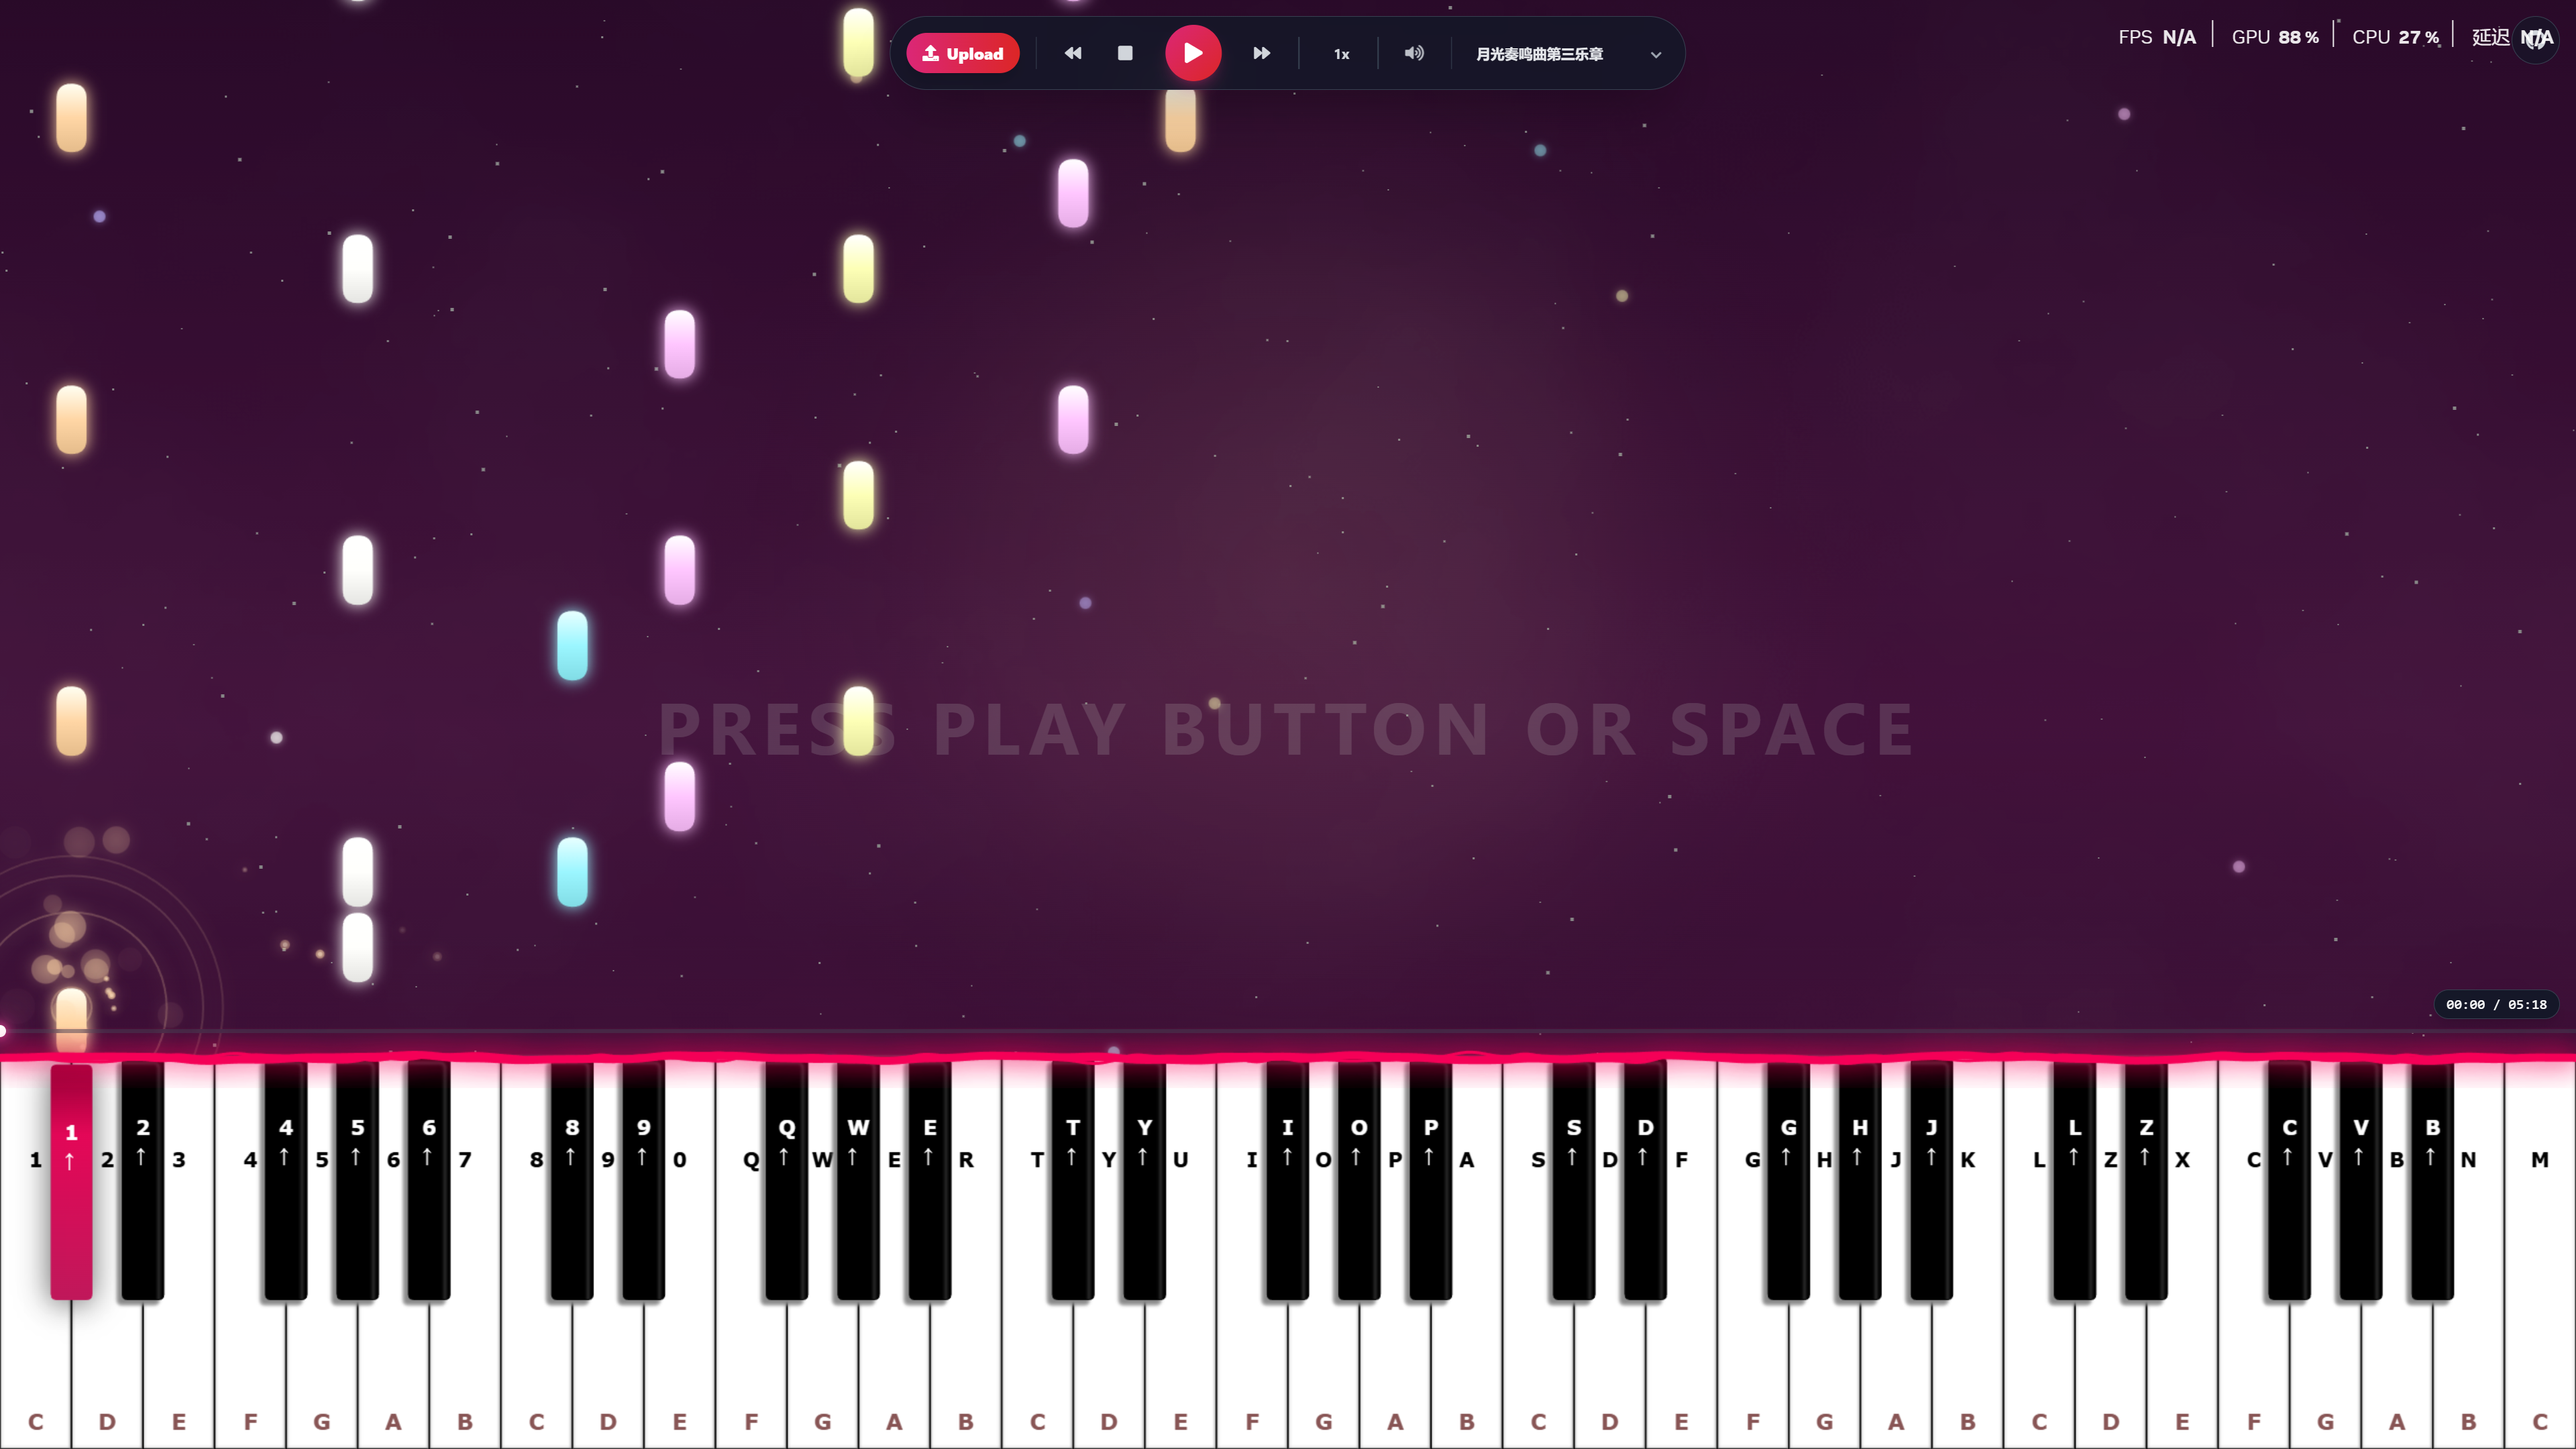
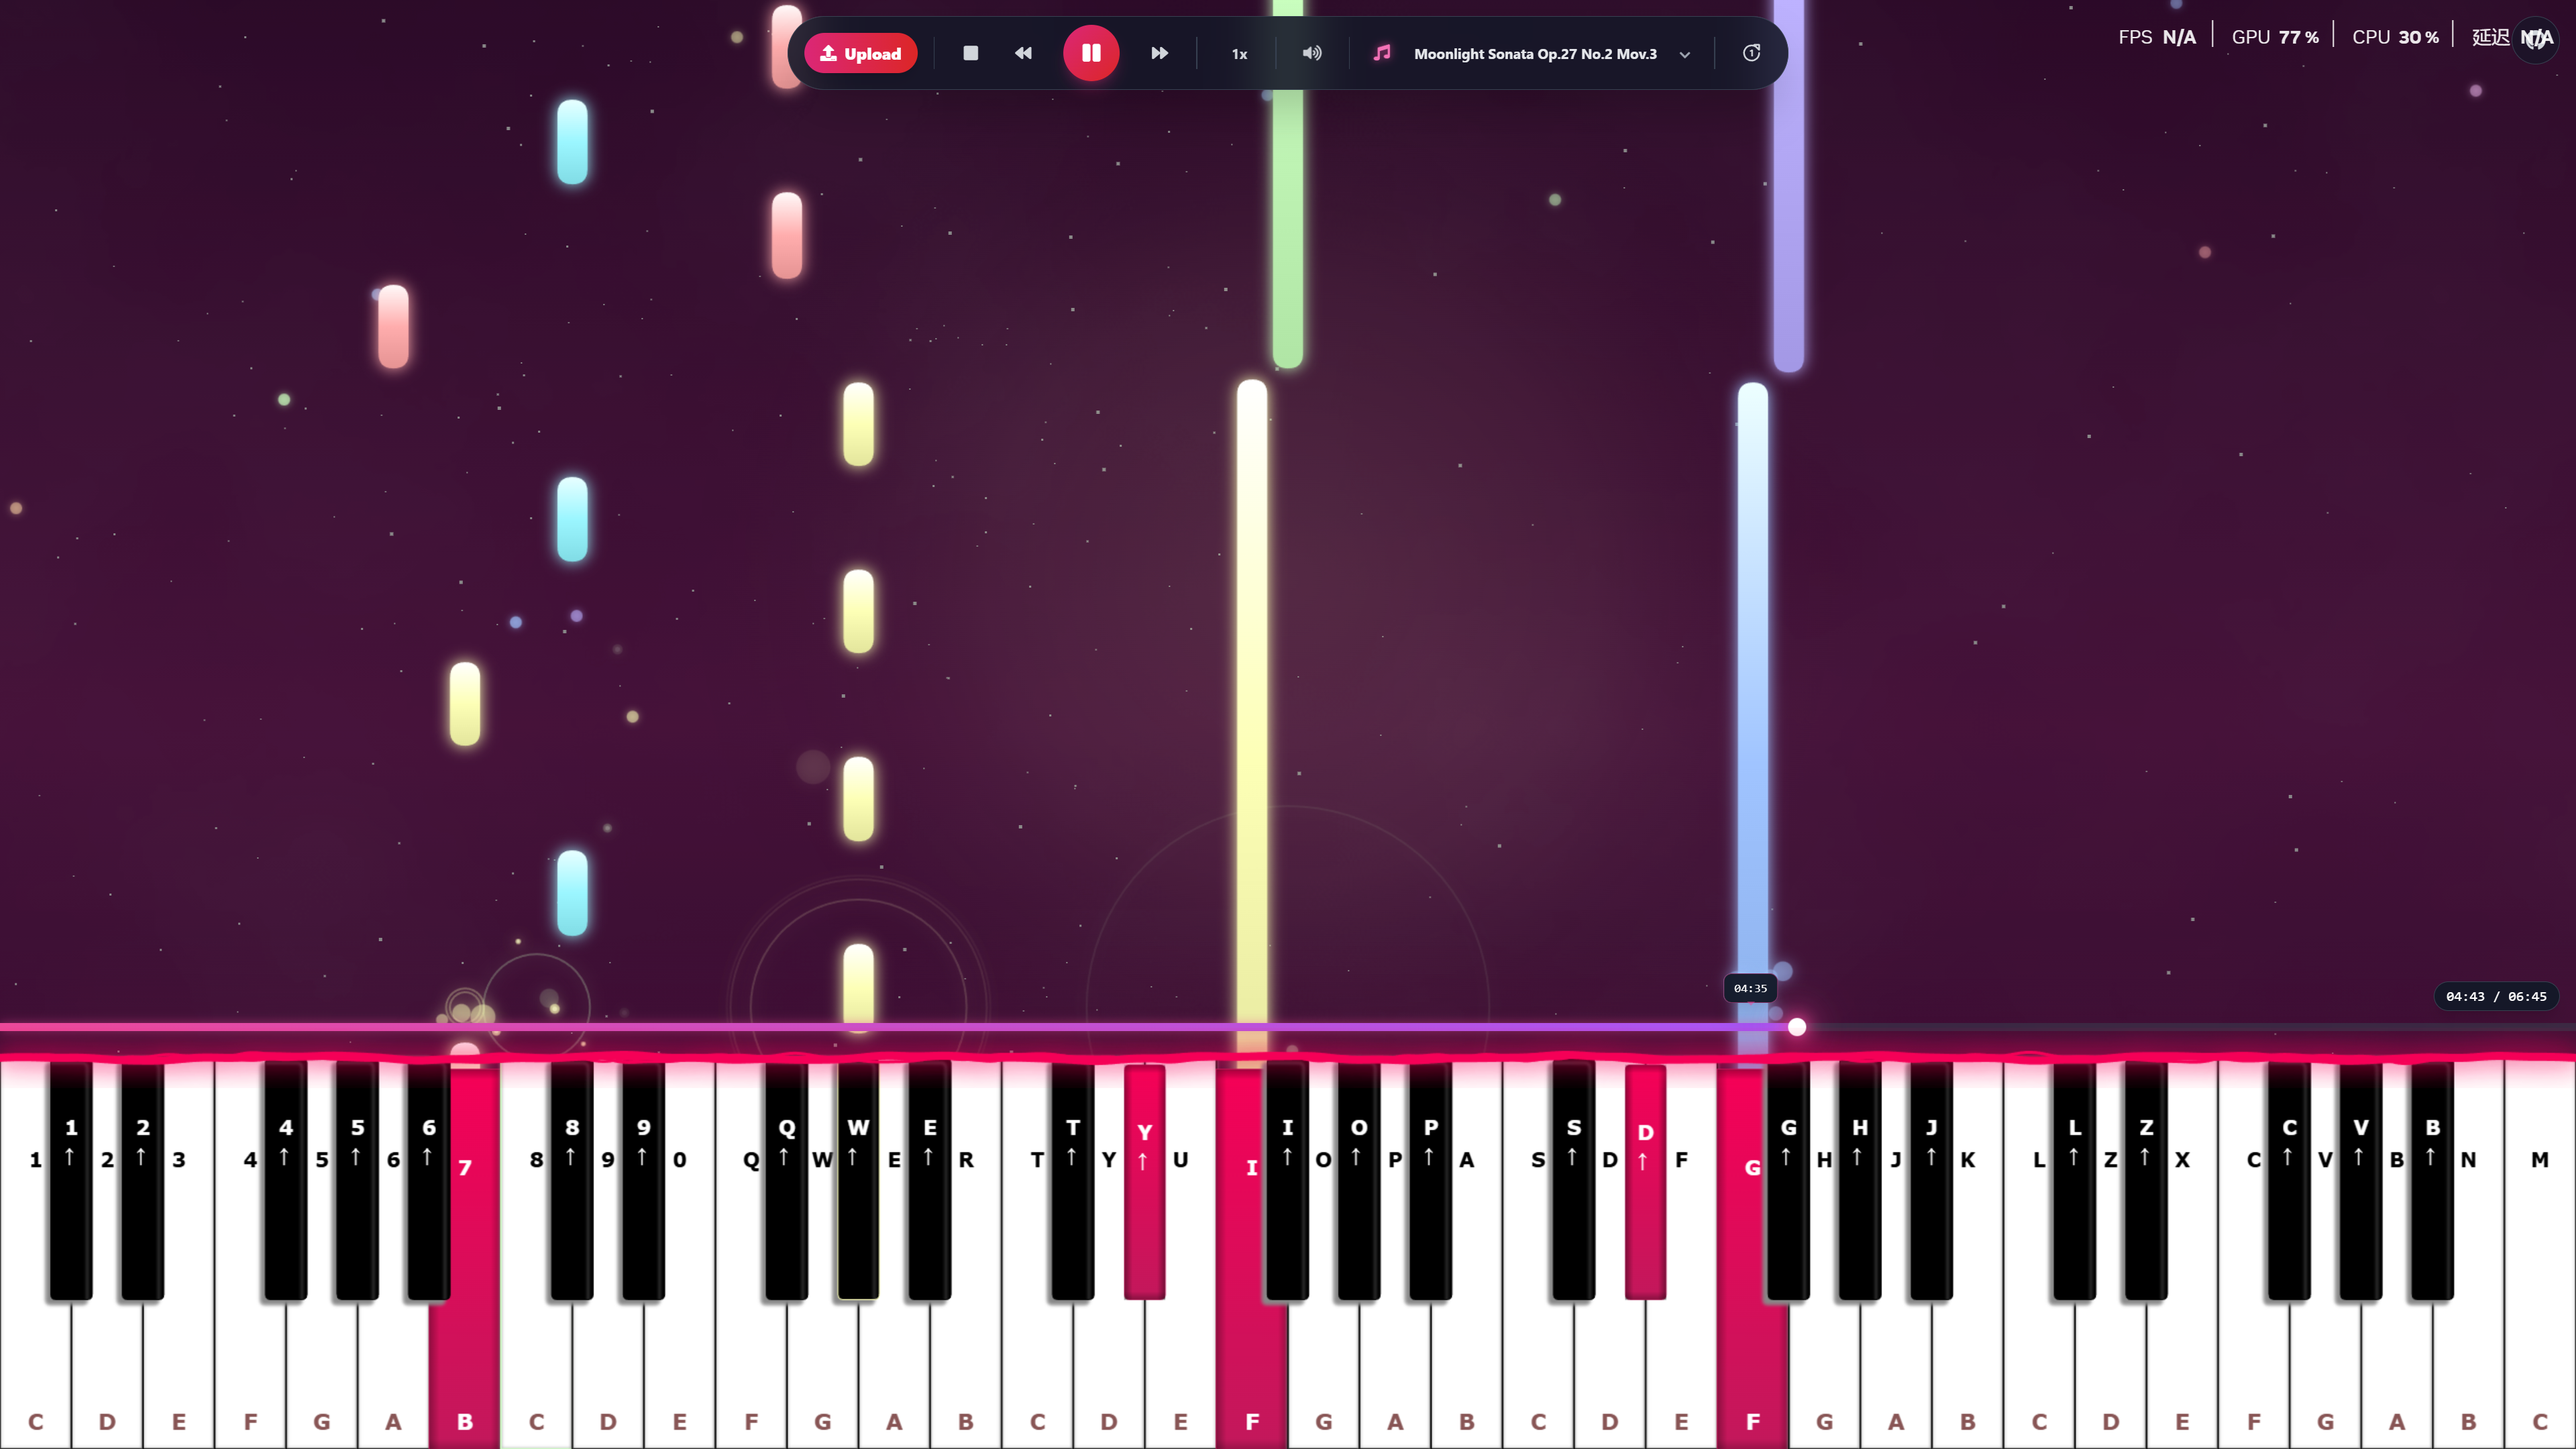
feat: playmode

diff --git a/src/components/PianoCanvas.vue b/src/components/PianoCanvas.vue
@@ -131,6 +131,32 @@
           <i class="fas fa-trash text-sm"></i>
         </button>
       </div>
+
+      <div class="hidden sm:block w-px h-8 bg-gray-700 mx-1"></div>
+
+      <!-- Play Mode Control -->
+      <button @click="cyclePlayMode"
+        class="w-10 h-10 flex items-center justify-center rounded-full hover:bg-gray-700 hover:text-purple-400 transition-all text-gray-300 active:scale-95 relative group"
+        :title="playModeTitle">
+        <!-- FontAwesome Icon -->
+        <i v-if="playModeIcon.type === 'fa'" :class="['fas', playModeIcon.icon, 'text-sm sm:text-base transition-all duration-300']" 
+           :style="{ animation: 'playModeIconPulse 2s ease-in-out infinite' }"></i>
+        <!-- Custom SVG Icon for Single Loop -->
+        <svg v-else-if="playModeIcon.type === 'svg' && playModeIcon.icon === 'single-loop'" 
+             class="w-4 h-4 sm:w-5 sm:h-5 transition-all duration-300"
+             :style="{ animation: 'playModeIconPulse 2s ease-in-out infinite' }"
+             viewBox="0 0 24 24" 
+             fill="none" 
+             stroke="currentColor" 
+             stroke-width="2" 
+             stroke-linecap="round" 
+             stroke-linejoin="round">
+          <!-- Circular arrow path -->
+          <path d="M21 12a9 9 0 1 1-2.636-6.364L21 8.25V2.25h-6l2.879 2.879"></path>
+          <!-- Number 1 in center -->
+          <text x="12" y="16" text-anchor="middle" fill="currentColor" font-size="10" font-weight="bold" stroke="none">1</text>
+        </svg>
+      </button>
     </div>
 
     <!-- Progress Bar -->
@@ -379,6 +405,18 @@
     transform: rotate(-90deg) scale(1.1);
   }
 }
+
+/* Play Mode Icon Animation */
+@keyframes playModeIconPulse {
+  0%, 100% {
+    transform: scale(1);
+    opacity: 1;
+  }
+  50% {
+    transform: scale(1.1);
+    opacity: 0.8;
+  }
+}
 </style>
 
 <script setup lang="ts">
@@ -429,6 +467,7 @@ const totalDuration = ref(1000); // Total song duration in ms
 const playbackSpeed = ref(1); // Speed multiplier
 const volume = ref(0.9); // Volume level 0-1
 const showVolumeSlider = ref(false); // Toggle volume slider visibility
+const playMode = ref<'single' | 'list' | 'random'>('single'); // Play mode: 单曲循环/列表循环/随机
 const canvasWidth = ref(window.innerWidth);
 const canvasHeight = ref(window.innerHeight);
 const pianoY = ref(0);
@@ -473,6 +512,24 @@ const selectWidth = computed(() => {
   // Calculate total width with min and max constraints
   const calculatedWidth = textWidth + padding;
   return Math.max(80, Math.min(300, calculatedWidth));
+});
+
+const playModeIcon = computed(() => {
+  switch (playMode.value) {
+    case 'single': return { type: 'svg', icon: 'single-loop' }; // 单曲循环 (custom SVG)
+    case 'list': return { type: 'fa', icon: 'fa-sync-alt' }; // 列表循环 (circular sync)
+    case 'random': return { type: 'fa', icon: 'fa-random' }; // 随机 (shuffle icon)
+    default: return { type: 'svg', icon: 'single-loop' };
+  }
+});
+
+const playModeTitle = computed(() => {
+  switch (playMode.value) {
+    case 'single': return '单曲循环 (Single Loop)';
+    case 'list': return '列表循环 (List Loop)';
+    case 'random': return '随机 (Random)';
+    default: return '单曲循环';
+  }
 });
 
 const isMobile = computed(() => {
@@ -691,6 +748,62 @@ const cycleSpeed = () => {
   const currentIndex = speeds.indexOf(playbackSpeed.value);
   const nextIndex = (currentIndex + 1) % speeds.length;
   playbackSpeed.value = speeds[nextIndex];
+};
+
+const cyclePlayMode = () => {
+  const modes: Array<'single' | 'list' | 'random'> = ['single', 'list', 'random'];
+  const currentIndex = modes.indexOf(playMode.value);
+  const nextIndex = (currentIndex + 1) % modes.length;
+  playMode.value = modes[nextIndex];
+  // Save play mode to localStorage
+  localStorage.setItem('playMode', playMode.value);
+};
+
+const getNextSheetKey = (): string | null => {
+  const allKeys = sheetKeys.value;
+  if (allKeys.length === 0) return null;
+  
+  const currentIndex = allKeys.indexOf(selectedSheetKey.value);
+  
+  if (playMode.value === 'single') {
+    // Single loop: return same song
+    return selectedSheetKey.value;
+  } else if (playMode.value === 'list') {
+    // List loop: go to next song, wrap around to first
+    const nextIndex = (currentIndex + 1) % allKeys.length;
+    return allKeys[nextIndex];
+  } else if (playMode.value === 'random') {
+    // Random: pick a random song (avoid current if possible)
+    if (allKeys.length === 1) return allKeys[0];
+    let randomIndex;
+    do {
+      randomIndex = Math.floor(Math.random() * allKeys.length);
+    } while (randomIndex === currentIndex && allKeys.length > 1);
+    return allKeys[randomIndex];
+  }
+  
+  return null;
+};
+
+const playNextSong = () => {
+  const nextKey = getNextSheetKey();
+  if (!nextKey) return;
+  
+  if (nextKey === selectedSheetKey.value) {
+    // Same song, just restart
+    playbackTime.value = 0;
+    play();
+  } else {
+    // Switch to next song
+    selectedSheetKey.value = nextKey;
+    localStorage.setItem('selectedSheetKey', nextKey);
+    customSheet.value = null;
+    reset();
+    // Auto-play the next song
+    setTimeout(() => {
+      play();
+    }, 100);
+  }
 };
 
 const updateVolume = () => {
@@ -1726,6 +1839,8 @@ const update = () => {
     if (playbackTime.value >= totalDuration.value) {
       pause();
       playbackTime.value = totalDuration.value;
+      // Auto-play next song according to play mode
+      playNextSong();
     }
   } else {
     lastFrameTime = 0;
@@ -1909,6 +2024,16 @@ onMounted(async () => {
 
   // Initialize volume
   updateVolume();
+
+  // Load saved play mode from localStorage
+  try {
+    const savedPlayMode = localStorage.getItem('playMode');
+    if (savedPlayMode && ['single', 'list', 'random'].includes(savedPlayMode)) {
+      playMode.value = savedPlayMode as 'single' | 'list' | 'random';
+    }
+  } catch (err) {
+    console.error('Failed to load saved play mode:', err);
+  }
 
   onResize();
   loadSavedSelection();
